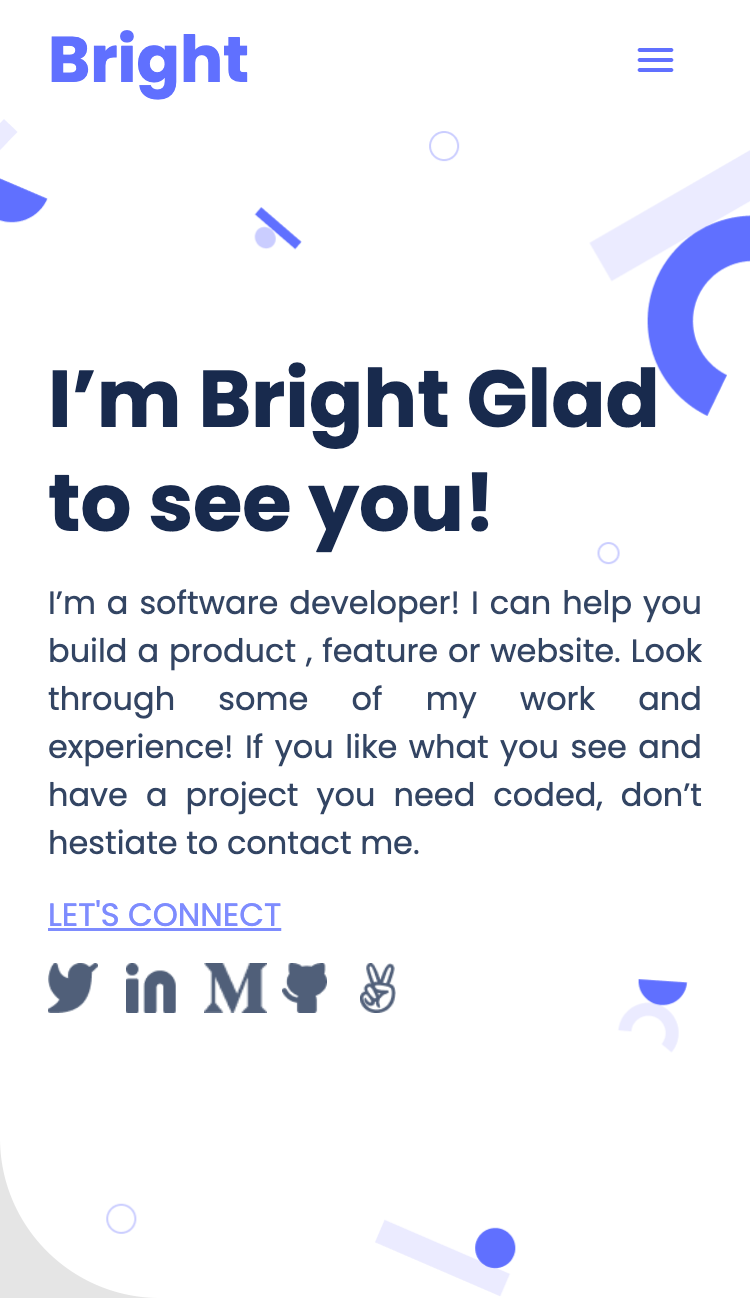
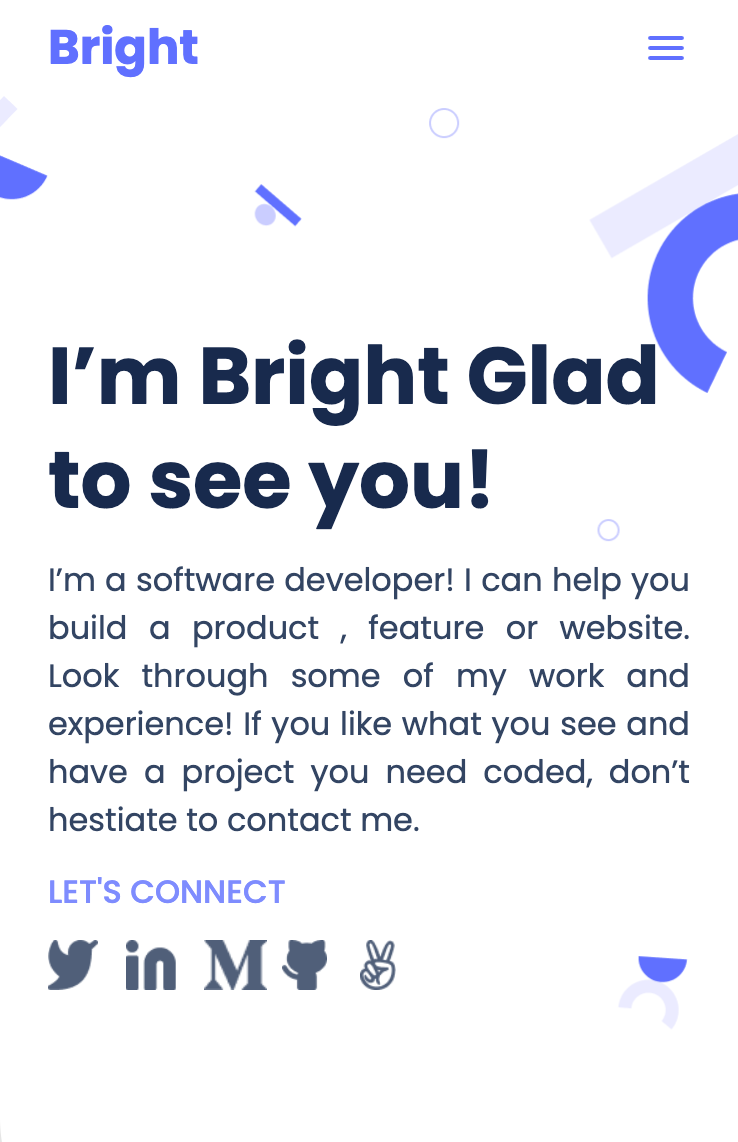
Update index.html
Add <a> around logo to make it clickable
Add flex class on all flex containers for DRY purposes
Update style.css adding flex class and resize screenshot in README

diff --git a/index.html b/index.html
@@ -10,9 +10,11 @@
 
   <body>
     <header>
-      <nav class="header-nav wrap">
-        <h1 class="logo-text">Bright</h1>
-        <span>
+      <nav class="flex header-nav wrap">
+        <a href="#" class="logo">
+          <h1 class="logo-text">Bright</h1>
+        </a>
+        <span class="flex">
           <svg width="24" height="24" viewBox="0 0 24 24" fill="none" xmlns="http://www.w3.org/2000/svg">
             <path fill-rule="evenodd" clip-rule="evenodd" d="M3 7C3 6.44772 3.44772 6 4 6H20C20.5523 6 21 6.44772 21 7C21 7.55228 20.5523 8 20 8H4C3.44772 8 3 7.55228 3 7ZM3 12C3 11.4477 3.44772 11 4 11L20 11C20.5523 11 21 11.4477 21 12C21 12.5523 20.5523 13 20 13L4 13C3.44772 13 3 12.5523 3 12ZM4 16C3.44772 16 3 16.4477 3 17C3 17.5523 3.44772 18 4 18H20C20.5523 18 21 17.5523 21 17C21 16.4477 20.5523 16 20 16H4Z" fill="#6070FF"/>
           </svg>
@@ -21,33 +23,35 @@
     </header>
 
     <section class="headline">
-      <div class="headline-wrap">
+      <div class="flex headline-wrap">
         <h2 class="welcome">I’m Bright Glad to see you!</h2>
         <p class="headline-profile margin-top-12">I’m a software developer! I can help you build a product , feature or website. Look through some of my work and experience! If you like what you see and have a project you need coded, don’t hestiate to contact me.</p>
-        <a href="#" class="headline-cta margin-top-12">Let's connect</a>
+        <a href="#" class="headline-cta margin-top-12">
+          <h3>Let's connect</h3>
+        </a>
         <ul class="social-icons margin-top-12">
           <li>
-            <a>
+            <a href="#">
               <img class="social twitter" src="images/icons/twitter-icon.png" alt="Twitter icon">
             </a>
           </li>
           <li>
-            <a>
+            <a href="#">
               <img class="social linkedin" src="images/icons/linkedin-icon.png" alt="Twitter icon">
             </a>
           </li>
           <li>
-            <a>
+            <a href="#">
               <img class="social m" src="images/icons/m-icon.png" alt="Twitter icon">
             </a>
           </li>
           <li>
-            <a>
+            <a href="#">
               <img class="social github" src="images/icons/github-icon.png" alt="Twitter icon">
             </a>
           </li>
           <li>
-            <a>
+            <a href="#">
               <img class="social f" src="images/icons/f-icon.png" alt="Twitter icon">
             </a>
           </li>

diff --git a/css/style.css b/css/style.css
@@ -9,6 +9,12 @@ body {
   background-color: #e5e5e5;
 }
 
+.flex {
+  display: -webkit-box;
+  display: -ms-flexbox;
+  display: flex;
+}
+
 .margin-top-12 {
   margin-top: 12px;
 }
@@ -20,9 +26,6 @@ body {
 /* Header flex container */
 .header-nav {
   background-color: #fff;
-  display: -webkit-box;
-  display: -ms-flexbox;
-  display: flex;
   -webkit-box-align: center;
   -ms-flex-align: center;
   align-items: center;
@@ -36,8 +39,11 @@ body {
 }
 
 .header-nav span {
-  display: flex;
   justify-content: flex-end;
+}
+
+.logo {
+  text-decoration: none;
 }
 
 .logo-text {
@@ -60,9 +66,6 @@ body {
   background-image: url(../images/headline-bg.png);
   background-size: cover;
   padding: 114px 24px 136px 24px;
-  display: -webkit-box;
-  display: -ms-flexbox;
-  display: flex;
   -webkit-box-orient: vertical;
   -webkit-box-direction: normal;
   -ms-flex-direction: column;
@@ -88,8 +91,15 @@ body {
 }
 
 .headline-cta {
+  text-decoration: none;
+}
+
+.headline-cta h3 {
   text-transform: uppercase;
   color: #7f8cff;
+  font-size: 16px;
+  font-weight: 500;
+  line-height: 24px;
 }
 
 /* Social icons flex container */

diff --git a/README.md b/README.md
@@ -2,7 +2,9 @@
 
 # Portfolio: Bright Kweku Ahiadeke
 
-![screenshot](./images/screenshot.png)
+<div style="height: 350px">
+  ![screenshot](./images/screenshot.png)
+</div>
 
 > I’m a software developer! I can help you build a product , feature or website. Look through some of my work and experience! If you like what you see and have a project you need coded, don’t hestiate to contact me.
 
